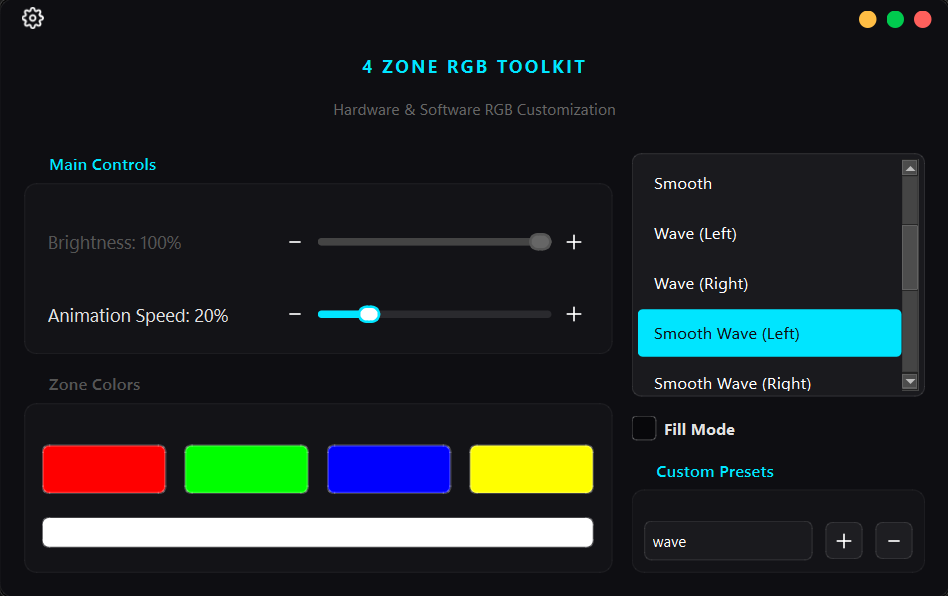
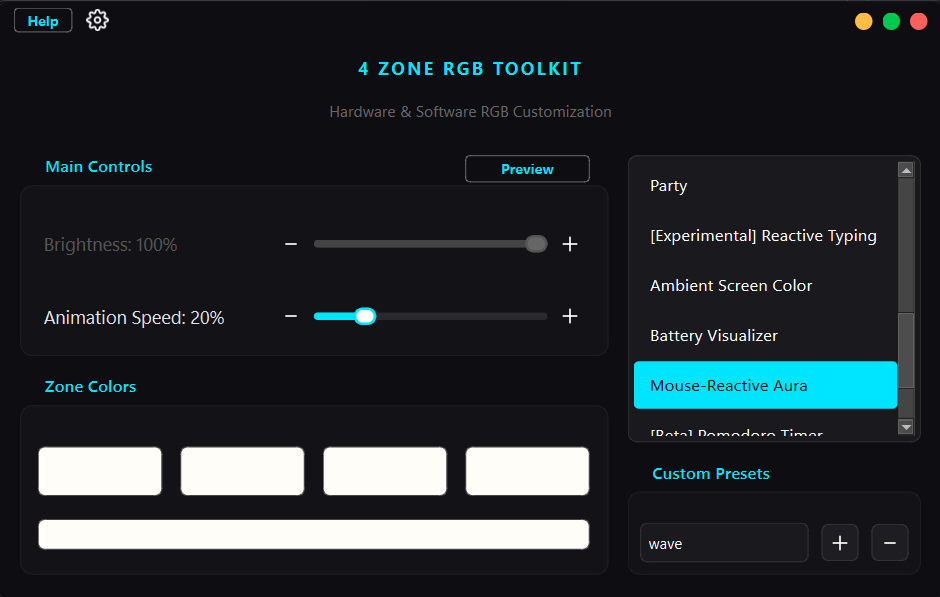
docs: add preview image for 4-Zone-Keyboard-RGB-Toolkit

diff --git a/python_app/main.py b/python_app/main.py
@@ -43,7 +43,7 @@ import urllib.error
 import tempfile
 import traceback
 
-CURRENT_VERSION = "v1.5"
+CURRENT_VERSION = "v1.51"
 
 def _resolve_original_exe_path():
     if not getattr(sys, 'frozen', False):
@@ -730,7 +730,7 @@ class RGBControllerApp(QMainWindow):
         self.global_color_btn.clicked.connect(self.pick_global_color)
         colors_layout.addWidget(self.global_color_btn, 1, 0, 1, 4)
         left_layout.addWidget(self.colors_group)
-        self.SOFTWARE_MODES = ['Smooth Wave (Left)', 'Smooth Wave (Right)', 'Lightning', 'Party', '[Experimental] Reactive Typing', 'Ambient Screen Color', 'Battery Visualizer', 'Mouse-Reactive Aura', '[Beta] Pomodoro Timer', '[Beta] Live Audio Visualizer']
+        self.SOFTWARE_MODES = ['Smooth Wave (Left)', 'Smooth Wave (Right)', 'Lightning', 'Party', '[Experimental] Reactive Typing', '[Experimental] Realistic Fire', 'Ambient Screen Color', 'Battery Visualizer', 'Mouse-Reactive Aura', '[Beta] Pomodoro Timer', '[Beta] Live Audio Visualizer']
         self.HARDWARE_MODES = ['Off', 'Static', 'Breath', 'Smooth', 'Wave (Left)', 'Wave (Right)']
         self.mode_list = QListWidget()
         self.mode_list.addItems(self.HARDWARE_MODES + self.SOFTWARE_MODES)
@@ -1172,6 +1172,7 @@ class RGBControllerApp(QMainWindow):
                 self.kb.set_solid_color(0, 0, 0)
         except Exception as e:
             pass
+        self.stop_visualizer()
         QApplication.instance().quit()
     def on_tray_activated(self, reason):
         if reason == QSystemTrayIcon.DoubleClick:
@@ -1366,6 +1367,8 @@ class RGBControllerApp(QMainWindow):
                 self.speed_label.setText(f'Fade Speed: {self.speed_slider.value()}%')
             elif 'Live Audio Visualizer' in mode_name:
                 self.speed_label.setText(f'Visualizer Sensitivity: {self.speed_slider.value()}%')
+            elif '[Experimental] Realistic Fire' in mode_name:
+                self.speed_label.setText(f'Fire Flicker Speed: {self.speed_slider.value()}%')
             else:
                 self.speed_label.setText(f'Animation Speed: {self.speed_slider.value()}%')
             
@@ -1419,6 +1422,8 @@ class RGBControllerApp(QMainWindow):
             self.speed_label.setText(f'Fade Speed: {value}%')
         elif 'Live Audio Visualizer' in mode_name:
             self.speed_label.setText(f'Visualizer Sensitivity: {value}%')
+        elif '[Experimental] Realistic Fire' in mode_name:
+            self.speed_label.setText(f'Fire Flicker Speed: {value}%')
         else:
             self.speed_label.setText(f'Animation Speed: {value}%')
         self.apply_effect()
@@ -1431,6 +1436,21 @@ class RGBControllerApp(QMainWindow):
         else:
             self.vibrance_label.setText(f'Vibrance: {value/10.0}x')
             # Does not need immediate effect replay - calculates frame by frame
+    def stop_visualizer(self):
+        if hasattr(self, 'visualizer_process') and self.visualizer_process:
+            try:
+                import subprocess
+                # Forcefully kill the process tree (/T) to ensure the actual Python child
+                # spawned by the PyInstaller wrapper is terminated, preventing background leakage.
+                subprocess.run(['taskkill', '/F', '/T', '/PID', str(self.visualizer_process.pid)], 
+                               stdout=subprocess.DEVNULL, stderr=subprocess.DEVNULL,
+                               creationflags=subprocess.CREATE_NO_WINDOW if sys.platform == 'win32' else 0)
+                self.visualizer_process.wait(timeout=1.0)
+            except Exception as e:
+                pass
+            finally:
+                self.visualizer_process = None
+
     def apply_effect(self):
         # Stop the custom timer before applying a new effect
         self.custom_timer.stop()
@@ -1666,6 +1686,35 @@ class RGBControllerApp(QMainWindow):
                                         target_colors[i * 3] = self.zone_colors[i][0] * intensity
                                         target_colors[i * 3 + 1] = self.zone_colors[i][1] * intensity
                                         target_colors[i * 3 + 2] = self.zone_colors[i][2] * intensity
+                            elif '[Experimental] Realistic Fire' in mode_name:
+                                # Fire flickers intensely and independently per zone
+                                smooth_amount = max(0.01, 0.25 - (self.speed_slider.value() / 100.0) * 0.2)
+                                
+                                if not hasattr(self, 'fire_state'):
+                                    self.fire_state = [random.random() for _ in range(4)]
+                                
+                                for i in range(4):
+                                    # Simulate fire flickering with random jitter (wider swings)
+                                    jitter = (random.random() - 0.5) * 0.9 * speed_mult
+                                    self.fire_state[i] = max(0.1, min(1.0, self.fire_state[i] + jitter))
+                                    
+                                    # Fire colors: Mostly red/orange/yellow
+                                    # R is high, G fluctuates wildly, B is very low
+                                    intensity = self.fire_state[i]
+                                    
+                                    if random.random() < 0.12 * speed_mult:
+                                        # Frequent, powerful bright pops (embers)
+                                        intensity = min(1.0, intensity + 0.6)
+                                        self.fire_state[i] = intensity
+                                        
+                                    # Deep Red Fire: Maximize R, sharply limit G (to keep orange sparse), near zero B
+                                    r = 255 * min(1.0, intensity * 2.0)  # Pushed harder for saturated red
+                                    g = 60 * intensity * (0.3 + 0.6 * random.random()) # Halved G to suppress bright yellow/orange
+                                    b = 5 * intensity * random.random() # Almost completely kill B
+                                    
+                                    target_colors[i * 3] = r
+                                    target_colors[i * 3 + 1] = g
+                                    target_colors[i * 3 + 2] = b
                             else:
                                 if 'Battery Visualizer' in mode_name:
                                     smooth_amount = 0.5
@@ -1871,8 +1920,21 @@ if __name__ == '__main__':
         except Exception:
             pass
     app = QApplication(sys.argv)
+
+    from PySide6.QtWidgets import QMessageBox
+    import ctypes
+
+    mutex_name = "4ZoneRGBToolkit_SingleInstanceLock"
+    mutex = ctypes.windll.kernel32.CreateMutexW(None, False, mutex_name)
+    last_error = ctypes.windll.kernel32.GetLastError()
+    
+    if last_error == 183: # ERROR_ALREADY_EXISTS
+        QMessageBox.critical(None, "Already Running", "Another instance of 4 Zone RGB Toolkit is already running.")
+        sys.exit(0)
+
     app.setStyle('Fusion')
     window = RGBControllerApp()
     if '--hidden' not in sys.argv:
         window.show()
     sys.exit(app.exec())
+    
